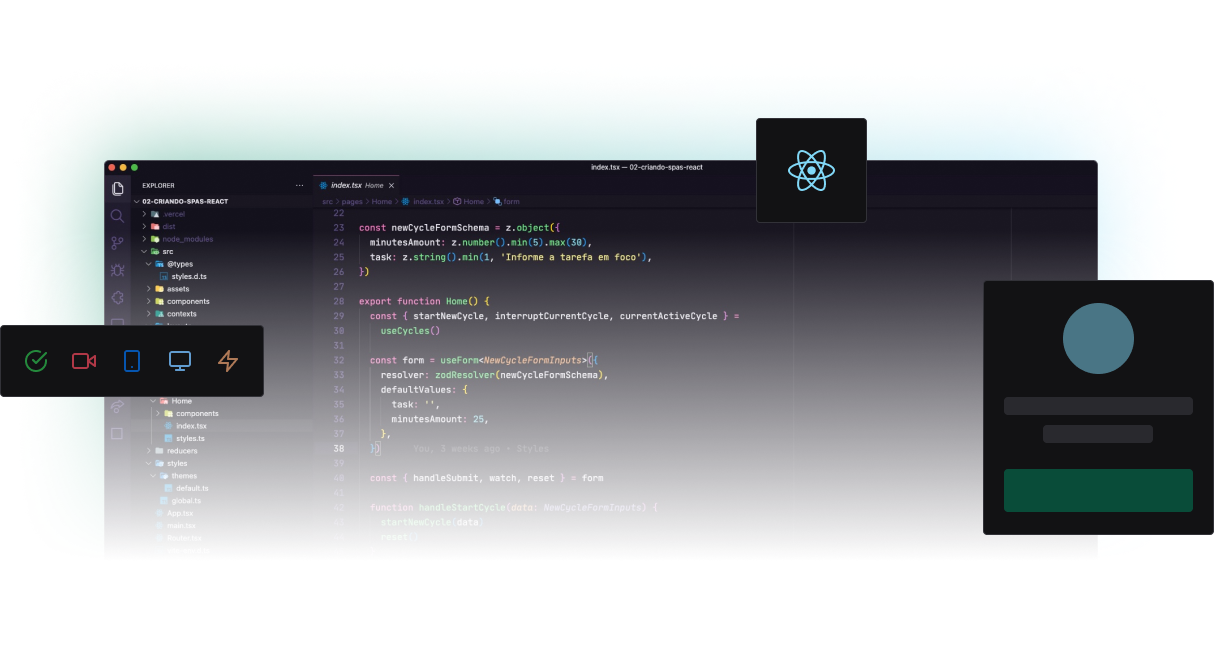
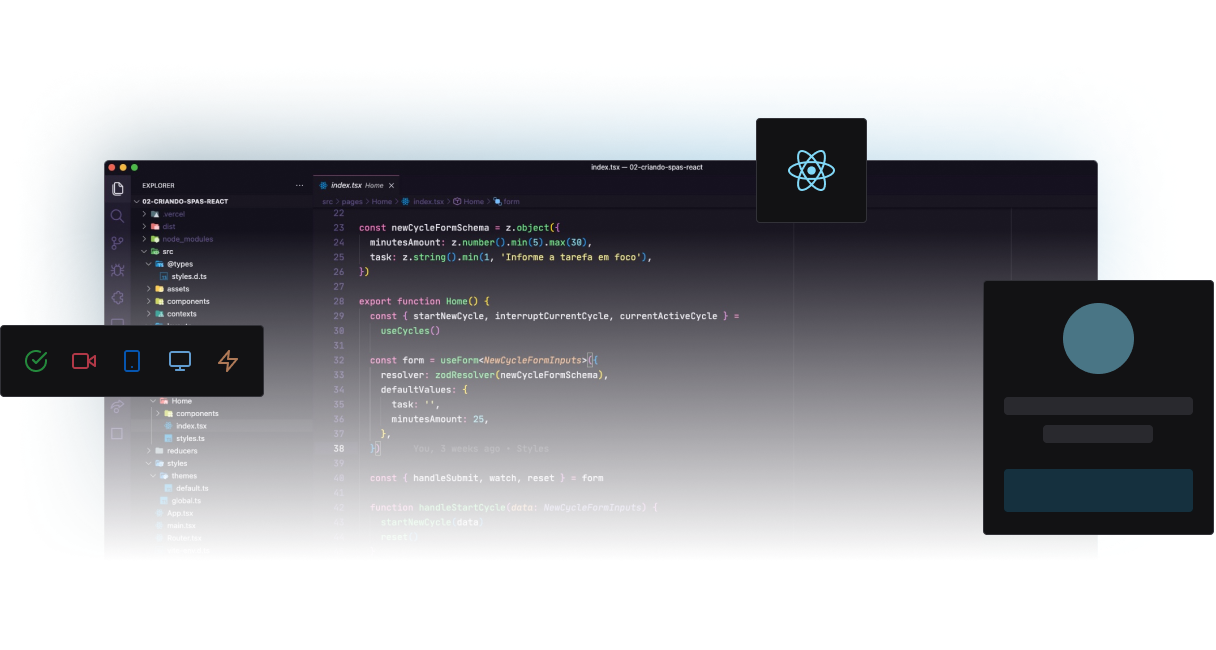
Change colors

Changed region(s): [[0.8125, 0.7077, 1.0, 0.8]]

diff --git a/src/components/Logo.tsx b/src/components/Logo.tsx
@@ -1,21 +1,40 @@
 export function Logo() {
   return (
-    <svg
-      xmlns="http://www.w3.org/2000/svg"
-      width="237"
-      height="34"
-      fill="none"
-      viewBox="0 0 237 34"
-    >
+    <svg xmlns="http://www.w3.org/2000/svg" width={237} viewBox="0 0 242.51 51.3">
+      <path
+        fill="#7fd3f4"
+        d="M10.23 30a10.14 10.14 0 01-7.38-2.78A9.9 9.9 0 010 19.85v-.54a12.43 12.43 0 011.2-5.55A8.78 8.78 0 014.6 10a9.57 9.57 0 015-1.32 8.58 8.58 0 016.66 2.66q2.45 2.66 2.45 7.56v2.24H5.58a5.14 5.14 0 001.61 3.24 4.89 4.89 0 003.4 1.22 5.93 5.93 0 005-2.31l2.71 3a8.36 8.36 0 01-3.36 2.74 11 11 0 01-4.71.97zM9.6 13.1a3.45 3.45 0 00-2.66 1.11 5.74 5.74 0 00-1.3 3.18h7.65V17a4.05 4.05 0 00-1-2.84A3.53 3.53 0 009.6 13.1zM28.73 22.93l3.83-13.88h5.75l-7 20.61H26.1l-7-20.61h5.8zM49.4 30a10.14 10.14 0 01-7.4-2.74 9.93 9.93 0 01-2.84-7.41v-.54a12.43 12.43 0 011.2-5.55A8.78 8.78 0 0143.77 10a9.55 9.55 0 015-1.32 8.56 8.56 0 016.65 2.66q2.45 2.66 2.45 7.56v2.24H44.75a5.09 5.09 0 001.61 3.24 4.87 4.87 0 003.4 1.22 5.93 5.93 0 005-2.31l2.7 3a8.27 8.27 0 01-3.35 2.74 11 11 0 01-4.71.97zm-.63-16.9a3.43 3.43 0 00-2.66 1.11 5.74 5.74 0 00-1.3 3.18h7.65V17a4.05 4.05 0 00-1-2.84 3.53 3.53 0 00-2.69-1.06zM65.49 9.05l.18 2.38a7.18 7.18 0 015.92-2.76 6 6 0 014.88 1.92 9 9 0 011.63 5.75v13.32h-5.5V16.48a3.63 3.63 0 00-.76-2.55 3.46 3.46 0 00-2.54-.79 3.77 3.77 0 00-3.48 2v14.52h-5.51V9.05zM88.3 4v5.05h3.52v4H88.3v10.32a2.48 2.48 0 00.43 1.63 2.22 2.22 0 001.68.49 8.71 8.71 0 001.59-.12v4.17a11.34 11.34 0 01-3.33.5q-5.79 0-5.91-5.85v-11.1h-3v-4h3V4z"
+      ></path>
       <path
         fill="#fff"
-        d="M.002 3.112a2.49 2.49 0 01.165-.987c.12-.314.304-.595.535-.83A2.906 2.906 0 012.615.572c.698 0 1.374.257 1.912.723.23.24.412.524.536.837a2.701 2.701 0 010 1.979 2.568 2.568 0 01-.536.837 2.889 2.889 0 01-1.907.723 2.901 2.901 0 01-1.908-.723 2.458 2.458 0 01-.538-.84 2.645 2.645 0 01-.172-.996zm4.96 23.146H.273V7.862h4.689v18.397zM8.012 16.973c0-2.853.686-5.145 2.055-6.883a6.653 6.653 0 015.528-2.606 5.869 5.869 0 014.802 2.09l.2-1.751h4.538v17.95a7.891 7.891 0 01-1.12 4.246 7.243 7.243 0 01-3.147 2.752 11.155 11.155 0 01-4.742.94c-1.378 0-2.74-.279-4.008-.812a7.08 7.08 0 01-2.946-2.11l2.208-3.02a5.905 5.905 0 004.543 2.08 4.356 4.356 0 003.104-1.059 3.938 3.938 0 001.103-2.993v-.994a5.775 5.775 0 01-4.555 1.935 6.647 6.647 0 01-3.05-.652 6.615 6.615 0 01-2.408-1.967c-1.397-1.752-2.085-4.089-2.085-6.942v-.21h-.025l.005.006zm4.997.355a6.723 6.723 0 001.026 3.956 3.233 3.233 0 002.799 1.443c.651.045 1.3-.088 1.878-.39a3.52 3.52 0 001.396-1.305v-7.825a3.448 3.448 0 00-1.374-1.305 3.504 3.504 0 00-1.86-.39 3.28 3.28 0 00-1.61.365 3.22 3.22 0 00-1.219 1.103c-.688.975-1.036 2.418-1.036 4.348zM33.098 7.833l.158 2.196a6.527 6.527 0 012.371-1.927 6.38 6.38 0 012.971-.62c1.97 0 3.438.597 4.39 1.79.953 1.194 1.456 2.936 1.486 5.293v12.249h-4.962V14.683a3.367 3.367 0 00-.684-2.344 3.086 3.086 0 00-1.069-.598 3.008 3.008 0 00-1.211-.13 3.349 3.349 0 00-1.821.454c-.553.32-1.01.794-1.313 1.367v13.37H28.45V7.845l4.647-.012zM47.512 3.112a2.304 2.304 0 01.185-.988 2.42 2.42 0 01.59-.831A3.439 3.439 0 0150.404.57c.772 0 1.52.256 2.117.723.508.486.792 1.142.792 1.826 0 .683-.284 1.34-.792 1.826a3.417 3.417 0 01-2.11.723c-.77 0-1.517-.257-2.11-.723a2.47 2.47 0 01-.594-.839 2.342 2.342 0 01-.19-.994h-.005zm5.483 23.149h-5.18V7.86h5.18v18.4zM62.454 3.334v4.612h3.107v3.677h-3.107v9.382c-.05.53.091 1.063.395 1.495a1.824 1.824 0 001.473.45c.476.002.95-.035 1.421-.114v3.803a9.672 9.672 0 01-2.939.449c-3.398 0-5.128-1.775-5.19-5.32V11.644h-2.642V7.968h2.643V3.356h4.841v-.025l-.002.003zM76.487 27.08a9.277 9.277 0 01-6.759-2.55c-1.74-1.699-2.605-3.957-2.605-6.797v-.494a11.295 11.295 0 011.098-5.08 8.141 8.141 0 013.111-3.465 8.72 8.72 0 014.59-1.22c2.577 0 4.62.815 6.098 2.449 1.478 1.633 2.226 3.94 2.226 6.929v2.055h-12.01a4.665 4.665 0 001.473 2.971 4.487 4.487 0 003.111 1.111 5.426 5.426 0 004.548-2.115l2.476 2.781a7.506 7.506 0 01-3.07 2.507 9.81 9.81 0 01-4.287.916v.002zm-.594-15.514a3.127 3.127 0 00-2.428 1.012 5.405 5.405 0 00-1.188 2.912h7.006v-.405a3.749 3.749 0 00-.908-2.608 3.252 3.252 0 00-2.45-.908h-.03l-.002-.003zM97.771 26.259h-4.957V0h4.957V26.26zM112.209 26.259c-.227-.444-.392-.997-.496-1.659-1.196 1.333-2.751 2.002-4.666 2.002-1.811 0-3.314-.523-4.504-1.572-1.191-1.049-1.786-2.372-1.786-3.966 0-1.96.725-3.464 2.179-4.513 1.453-1.049 3.553-1.58 6.3-1.59h2.273v-1.06c0-.854-.22-1.54-.659-2.051-.44-.513-1.131-.77-2.078-.77-.832 0-1.486.2-1.957.6-.474.4-.708.945-.708 1.64h-4.941c0-1.07.331-2.062.992-2.973.662-.91 1.597-1.626 2.804-2.144 1.206-.518 2.564-.778 4.069-.778 2.28 0 4.089.573 5.429 1.718 1.34 1.145 2.009 2.756 2.009 4.83v8.017c.012 1.754.256 3.082.735 3.983v.29h-4.992l-.003-.004zm-4.086-3.435c.728 0 1.402-.163 2.016-.486.614-.326 1.071-.76 1.367-1.308v-3.181h-1.846c-2.472 0-3.79.854-3.948 2.564l-.017.291c0 .614.217 1.123.649 1.523.434.4 1.026.6 1.779.6v-.003zM136.58 17.183c0 2.963-.632 5.273-1.898 6.931-1.265 1.659-3.032 2.488-5.3 2.488-2.006 0-3.608-.77-4.805-2.308l-.222 1.967h-4.444V.001h4.94v9.418c1.14-1.332 2.638-2 4.496-2 2.256 0 4.025.828 5.308 2.487 1.283 1.658 1.923 3.992 1.923 7v.274l.002.003zm-4.94-.358c0-1.868-.296-3.233-.889-4.094-.592-.861-1.475-1.29-2.65-1.29-1.572 0-2.655.643-3.247 1.932v7.299c.604 1.298 1.697 1.95 3.282 1.95 1.584 0 2.643-.788 3.146-2.36.239-.752.358-1.897.358-3.437z"
+        d="M118.82 19.54a12.36 12.36 0 01-2.16 7.63 6.94 6.94 0 01-5.84 2.83 6.43 6.43 0 01-5-2.17v9.71h-5.51V9.05h5.11l.19 2a6.46 6.46 0 015.22-2.4 7 7 0 015.92 2.82q2.12 2.82 2.11 7.77zm-5.5-.4a8.15 8.15 0 00-1-4.44 3.32 3.32 0 00-3-1.56 3.59 3.59 0 00-3.56 2v8.44a3.66 3.66 0 003.6 2c2.64.02 3.96-2.13 3.96-6.44zM127.47 29.66H122V.4h5.52zM143.38 29.66a6.13 6.13 0 01-.55-1.85 6.68 6.68 0 01-5.2 2.23 7.36 7.36 0 01-5-1.75 5.64 5.64 0 01-2-4.42 5.82 5.82 0 012.43-5q2.43-1.75 7-1.77h2.53v-1.21a3.38 3.38 0 00-.73-2.29 2.9 2.9 0 00-2.32-.86 3.32 3.32 0 00-2.18.67 2.28 2.28 0 00-.79 1.83h-5.5a5.58 5.58 0 011.1-3.32 7.38 7.38 0 013.13-2.39 11.47 11.47 0 014.53-.86 9 9 0 016 1.91 6.71 6.71 0 012.3 5.42v8.9a9.85 9.85 0 00.81 4.43v.33zm-4.55-3.83a4.79 4.79 0 002.25-.54 3.64 3.64 0 001.52-1.46v-3.54h-2.06q-4.12 0-4.4 2.85v.33a2.2 2.2 0 00.72 1.69 2.78 2.78 0 001.97.67zM158.38 4v5.05h3.52v4h-3.52v10.32a2.48 2.48 0 00.43 1.64 2.22 2.22 0 001.68.49 8.71 8.71 0 001.62-.13v4.17a11.34 11.34 0 01-3.33.5q-5.79 0-5.91-5.85v-11.1h-3v-4h3V4zM165.9 29.66V13.09h-3.06v-4h3.06V7.3a7.15 7.15 0 012-5.39A7.75 7.75 0 01173.46 0a13 13 0 012.8.38v4.27a6.79 6.79 0 00-1.68-.17q-3.1 0-3.1 2.91v1.66h4.09v4h-4.09v16.61zM177 19.16a12.28 12.28 0 011.18-5.46 8.69 8.69 0 013.4-3.72 9.9 9.9 0 015.16-1.31 9.39 9.39 0 016.81 2.55 10.3 10.3 0 012.94 6.93v1.41a10.8 10.8 0 01-2.65 7.61 10.25 10.25 0 01-14.22 0 11 11 0 01-2.62-7.76zm5.51.39a7.73 7.73 0 001.1 4.49 4 4 0 006.29 0 8.41 8.41 0 001.1-4.89 7.6 7.6 0 00-1.12-4.46 3.66 3.66 0 00-3.16-1.59 3.61 3.61 0 00-3.13 1.58 8.62 8.62 0 00-1.13 4.87zM210.88 14.21a15.2 15.2 0 00-2-.15c-2.09 0-3.45.7-4.1 2.11v13.49h-5.5V9.05h5.2l.15 2.45a5.1 5.1 0 014.59-2.83 6 6 0 011.72.24zM218.12 9.05l.17 2.3a7.24 7.24 0 015.92-2.68c2.66 0 4.48 1 5.47 3.14a7.06 7.06 0 016.19-3.14 6.14 6.14 0 015 1.95q1.63 2 1.64 5.88v13.16H237V16.51a3.92 3.92 0 00-.69-2.56 3 3 0 00-2.42-.81 3.45 3.45 0 00-3.43 2.36v14.16H225V16.53a3.89 3.89 0 00-.71-2.59 3.08 3.08 0 00-2.4-.8 3.57 3.57 0 00-3.39 1.95v14.57H213V9.05z"
+      ></path>
+      <path fill="#7fd3f4" d="M150.18 34.73H152.85V51.3H150.18z"></path>
+      <path
+        fill="#fff"
+        d="M164.06 44.25h-3v5.19h-1.7V36.6h4.25a5 5 0 013.33 1 3.55 3.55 0 011.17 2.87 3.51 3.51 0 01-.65 2.1 3.85 3.85 0 01-1.8 1.33l3 5.44v.11h-1.82l-2.79-5.19zm-3-1.39h2.6a2.89 2.89 0 002-.65 2.21 2.21 0 00.75-1.75 2.36 2.36 0 00-.71-1.83 3 3 0 00-2.05-.64h-2.59z"
+        opacity="0.7"
       ></path>
       <path
-        fill="#C4C4CC"
-        d="M164.51 17.501h-2.283v4.53h-2.048v-11.78h4.143c1.36 0 2.408.306 3.149.915.74.61 1.108 1.493 1.108 2.648 0 .787-.19 1.449-.57 1.98-.38.532-.911.94-1.59 1.226l2.646 4.906v.106h-2.194l-2.364-4.531h.003zm-2.283-1.65h2.105c.691 0 1.229-.176 1.619-.524.39-.348.582-.824.582-1.429 0-.604-.18-1.12-.538-1.466-.358-.345-.893-.523-1.606-.533h-2.162V15.85zM179.066 16.773h-4.839v3.625h5.656v1.634h-7.704V10.25h7.648v1.65h-5.6v3.253h4.839v1.62zM189.803 19.29h-4.565l-.955 2.744h-2.127l4.452-11.783h1.836l4.459 11.783h-2.137l-.963-2.744zm-3.99-1.65h3.415l-1.707-4.89-1.708 4.89zM204.716 18.197c-.119 1.256-.583 2.238-1.392 2.941-.81.703-1.885 1.056-3.228 1.056-.938 0-1.764-.222-2.48-.668-.715-.445-1.266-1.079-1.656-1.898-.387-.82-.589-1.772-.607-2.858v-1.1c0-1.11.198-2.09.59-2.937.392-.846.96-1.5 1.695-1.96.736-.458 1.587-.688 2.554-.688 1.301 0 2.347.353 3.139 1.057.792.703 1.254 1.7 1.385 2.99h-2.039c-.096-.846-.343-1.458-.74-1.833-.397-.375-.977-.563-1.745-.563-.89 0-1.574.326-2.05.977-.479.652-.721 1.605-.733 2.863v1.044c0 1.273.227 2.245.683 2.917.457.668 1.123 1.004 2.004 1.004.805 0 1.409-.18 1.814-.543.405-.363.661-.962.77-1.804h2.038l-.002.003zM216.481 11.902h-3.674v10.132h-2.031V11.902h-3.642V10.25h9.347v1.65zM222.759 10.251h2.039v8.262c0 1.127-.353 2.023-1.057 2.687-.703.664-1.633.995-2.788.995-1.229 0-2.179-.311-2.848-.93-.669-.62-1.004-1.484-1.004-2.59h2.038c0 .627.156 1.096.467 1.412.31.316.76.474 1.347.474.55 0 .989-.183 1.315-.545.326-.366.489-.867.489-1.51V10.25h.002zM234.952 18.999c0-.518-.183-.918-.545-1.197-.363-.279-1.022-.563-1.972-.849-.95-.286-1.705-.604-2.265-.955-1.074-.674-1.612-1.555-1.612-2.638 0-.95.388-1.732 1.163-2.347.774-.614 1.779-.922 3.015-.922.819 0 1.55.15 2.194.454a3.597 3.597 0 011.513 1.29c.367.558.55 1.177.55 1.858h-2.038c0-.614-.193-1.095-.578-1.443-.385-.348-.938-.524-1.656-.524-.668 0-1.189.144-1.557.43-.37.286-.555.686-.555 1.197 0 .432.2.792.6 1.08.399.29 1.056.57 1.974.842.918.271 1.653.582 2.208.93.556.348.963.748 1.222 1.197.259.452.387.977.387 1.582 0 .982-.375 1.762-1.127 2.342-.753.58-1.775.87-3.063.87a5.755 5.755 0 01-2.352-.473c-.715-.316-1.27-.75-1.668-1.308-.397-.555-.594-1.204-.594-1.942h2.048c0 .669.222 1.187.664 1.555.441.367 1.075.55 1.902.55.713 0 1.246-.143 1.607-.432.357-.288.538-.671.538-1.145l-.003-.002z"
+        fill="#fff"
+        d="M179.63 43.51L174.07 43.51 174.07 48.05 180.53 48.05 180.53 49.44 172.37 49.44 172.37 36.6 180.44 36.6 180.44 37.99 174.07 37.99 174.07 42.12 179.63 42.12 179.63 43.51z"
+        opacity="0.7"
       ></path>
-      <path fill="#00B37E" d="M150.271 33.146h-4.958V.57h4.958v32.576z"></path>
+      <path
+        fill="#fff"
+        d="M191.63 46.08h-5.38L185 49.44h-1.7l4.9-12.84h1.48l4.91 12.84h-1.74l-1.22-3.36zm-4.87-1.39h4.37l-2.19-6zM207.57 45.37a4.67 4.67 0 01-1.5 3.14 4.9 4.9 0 01-3.36 1.11 4.56 4.56 0 01-3.65-1.62 6.61 6.61 0 01-1.37-4.37v-1.25a7.29 7.29 0 01.64-3.15 4.82 4.82 0 011.81-2.09 5.09 5.09 0 012.72-.72 4.62 4.62 0 013.28 1.14 4.75 4.75 0 011.43 3.16h-1.7a3.59 3.59 0 00-1-2.22 2.87 2.87 0 00-2.06-.69 3 3 0 00-2.55 1.2 5.51 5.51 0 00-.92 3.41v1.24a5.67 5.67 0 00.87 3.33 2.85 2.85 0 002.45 1.24 3.27 3.27 0 002.16-.64 3.55 3.55 0 001-2.22z"
+        opacity="0.7"
+      ></path>
+      <path
+        fill="#fff"
+        d="M220.4 37.99L216.28 37.99 216.28 49.44 214.59 49.44 214.59 37.99 210.48 37.99 210.48 36.6 220.4 36.6 220.4 37.99z"
+        opacity="0.7"
+      ></path>
+      <path
+        fill="#fff"
+        d="M227.47 36.6h1.71v9.09a3.78 3.78 0 01-1.11 2.89 4.15 4.15 0 01-2.95 1 4.25 4.25 0 01-3-1 3.54 3.54 0 01-1.07-2.74h1.7a2.12 2.12 0 002.35 2.33 2.26 2.26 0 001.7-.67 2.53 2.53 0 00.65-1.85zM237.75 43.71a7.78 7.78 0 01-3.17-1.54 2.91 2.91 0 01-1-2.25 3.11 3.11 0 011.22-2.51 4.83 4.83 0 013.15-1 5.28 5.28 0 012.36.51 3.86 3.86 0 011.6 1.41 3.58 3.58 0 01.57 2h-1.7a2.37 2.37 0 00-.74-1.83 3.68 3.68 0 00-4-.11 1.84 1.84 0 00-.7 1.53 1.67 1.67 0 00.66 1.33 6.54 6.54 0 002.27 1 10.16 10.16 0 012.5 1 3.81 3.81 0 011.34 1.26 3.25 3.25 0 01.44 1.71 3 3 0 01-1.22 2.5 5.21 5.21 0 01-3.25.94 6 6 0 01-2.47-.51 4.22 4.22 0 01-1.77-1.39 3.34 3.34 0 01-.62-2h1.7a2.21 2.21 0 00.86 1.83 3.62 3.62 0 002.3.68 3.36 3.36 0 002.05-.55 1.78 1.78 0 00.72-1.49 1.75 1.75 0 00-.67-1.46 7.73 7.73 0 00-2.43-1.06z"
+        opacity="0.7"
+      ></path>
     </svg>
   );
 }

diff --git a/src/pages/Subscribe.tsx b/src/pages/Subscribe.tsx
@@ -28,8 +28,8 @@ export function Subscribe() {
 
   return (
     <div className="min-h-screen bg-blur bg-cover bg-no-repeat flex flex-col items-center">
-      <div className="w-full max-w-[1100px] flex items-center justify-between mt-20 mx-auto">
-        <div className="max-w-[640px]">
+      <div className="w-full max-w-[1100px] flex items-center justify-between flex-col lg:flex-row mt-20 mx-auto">
+        <div className="w-full lg:max-w-[640px] flex flex-col items-center lg:items-start text-center lg:text-left px-4">
           <Logo />
 
           <h1 className="mt-8 text-[2.5rem] leading-tight">
@@ -41,18 +41,18 @@ export function Subscribe() {
           </p>
         </div>
 
-        <div className="p-8 bg-gray-700 border border-gray-500 rounded">
+        <div className="w-full mt-8 lg:mt-0 lg:w-auto p-8 bg-gray-700 border border-gray-500 rounded">
           <strong className="text-2xl mb-6 block">Inscreva-se gratuitamente</strong>
 
           <form onSubmit={handleSubscribe} className="flex flex-col gap-2 w-full">
             <input
-              className="bg-gray-900 rounded px-5 h-14 border border-gray-900 hover:border-green-500 focus:border focus:border-green-500 focus:outline-none placeholder:text-gray-300"
+              className="bg-gray-900 rounded px-5 h-14 border border-gray-900 hover:border-blue-500 focus:border focus:border-blue-500 focus:outline-none placeholder:text-gray-300"
               type="text"
               placeholder="Seu nome completo"
               onChange={event => setName(event.target.value)}
             />
             <input
-              className="bg-gray-900 rounded px-5 h-14 border border-gray-900 hover:border-green-500 focus:border focus:border-green-500 focus:outline-none placeholder:text-gray-300"
+              className="bg-gray-900 rounded px-5 h-14 border border-gray-900 hover:border-blue-500 focus:border focus:border-blue-500 focus:outline-none placeholder:text-gray-300"
               type="email"
               placeholder="Digite seu e-mail"
               onChange={event => setEmail(event.target.value)}
@@ -61,7 +61,7 @@ export function Subscribe() {
             <button
               type="submit"
               disabled={loading}
-              className="mt-5 bg-green-500 uppercase py-4 rounded font-bold text-sm hover:bg-green-700 transition-colors disabled:opacity-50"
+              className="mt-5 text-gray-700 bg-blue-500 uppercase py-4 rounded font-bold text-sm hover:bg-blue-700 transition-colors disabled:opacity-50"
             >
               Garantir minha vaga
             </button>

diff --git a/src/components/Lesson.tsx b/src/components/Lesson.tsx
@@ -30,15 +30,15 @@ export function Lesson(props: LessonProps) {
       </span>
 
       <div className={classNames('rounded border p-4 mt-2', {
-        'border-green-500 bg-green-500 relative before:w-3 before:h-3 before:absolute before:bg-green-500 before:top-2/4 before:left-0 before:-translate-x-2/4 before:-translate-y-2/4 before:rotate-45 before:rounded-sm': isActiveLesson,
+        'border-blue-500 bg-blue-500 relative before:w-3 before:h-3 before:absolute before:bg-blue-500 before:top-2/4 before:left-0 before:-translate-x-2/4 before:-translate-y-2/4 before:rotate-45 before:rounded-sm': isActiveLesson,
         'border-gray-500': !isActiveLesson,
-        'group-hover:border-green-500': isLessonAvailable,
+        'group-hover:border-blue-500': isLessonAvailable,
         'opacity-50': !isLessonAvailable
       })}>
         <header className="flex items-center justify-between">
           {isLessonAvailable ? (
             <span className={classNames('text-sm font-medium flex items-center gap-2', {
-              'text-white': isActiveLesson,
+              'text-gray-700': isActiveLesson,
               'text-blue-500': !isActiveLesson
             })}>
               <CheckCircle size={20} />
@@ -51,16 +51,17 @@ export function Lesson(props: LessonProps) {
             </span>
           )}
           
-          <span className={classNames('text-xs rounded py-[0.125rem] px-2 text-white border font-bold', {
-            'border-white': isActiveLesson,
-            'border-green-300': !isActiveLesson
+          <span className={classNames('text-xs rounded py-[0.125rem] px-2 border font-bold', {
+            'border-gray-700 text-gray-700': isActiveLesson,
+            'border-blue-300 text-white': !isActiveLesson && isLessonAvailable,
+            'border-orange-500 text-white': !isLessonAvailable
           })}>
             {props.type === 'live' ? 'AO VIVO' : ' AULA PRÁTICA'}
           </span>
         </header>
         
         <strong className={classNames('mt-5 block', {
-          'text-white': isActiveLesson,
+          'text-gray-700': isActiveLesson,
           'text-gray-200': !isActiveLesson
         })}>
           {props.title}

diff --git a/src/components/Video.tsx b/src/components/Video.tsx
@@ -65,7 +65,7 @@ export function Video(props: VideoProps) {
           </div>
 
           <div className="flex flex-col gap-4">
-            <a href="" className="p-4 text-sm bg-green-500 flex items-center rounded font-bold uppercase gap-2 justify-center hover:bg-green-700 transition-colors">
+            <a href="" className="p-4 text-sm text-gray-900 bg-blue-500 flex items-center rounded font-bold uppercase gap-2 justify-center hover:bg-blue-700 transition-colors">
               <DiscordLogo size={24} />
               Comunidade do Discord
             </a>
@@ -79,7 +79,7 @@ export function Video(props: VideoProps) {
 
         <div className="gap-8 mt-20 grid grid-cols-2">
           <a href="" className="bg-gray-700 rounded overflow-hidden flex items-stretch gap-6 hover:bg-gray-600 transition-colors">
-            <div className="bg-green-700 h-full p-6 flex items-center">
+            <div className="bg-blue-700 text-gray-700 h-full p-6 flex items-center">
               <FileArrowDown size={40} />
             </div>
             <div className="py-6 leading-relaxed">
@@ -94,7 +94,7 @@ export function Video(props: VideoProps) {
           </a>
 
           <a href="" className="bg-gray-700 rounded overflow-hidden flex items-stretch gap-6 hover:bg-gray-600 transition-colors">
-            <div className="bg-green-700 h-full p-6 flex items-center">
+            <div className="bg-blue-700 text-gray-700 h-full p-6 flex items-center">
               <Image size={40} />
             </div>
             <div className="py-6 leading-relaxed">

diff --git a/tailwind.config.js b/tailwind.config.js
@@ -19,6 +19,7 @@ module.exports = {
         },
         blue: {
           500: '#81D8F7',
+          700: '#73C3F2'
         },
         orange: {
           500: '#FBA94C',

diff --git a/README.md b/README.md
@@ -1,0 +1,50 @@
+<h1 align="center">Event Platform</h1>
+
+<p align="center">
+  <a href="#-setup">Setup</a> •
+  <a href="#-technologies">Technologies</a> •
+  <a href="#-license">License</a>
+</p>
+
+<p align="center">
+  <img 
+    src=".github/background.png" 
+    alt="Ignite Lab"
+  />
+</p>
+
+## 💻 Setup
+
+**Clone the project and acess the folder**
+
+```bash
+git clone https://github.com/migueloliveiraz/event-platform.git && cd event-platform
+```
+
+**Follow the steps below**
+
+```bash
+# Install the dependencies
+$ yarn or npm install
+
+# Run the web server
+$ yarn dev
+
+```
+
+## 🚀 Technologies
+
+- [ReactJS](https://reactjs.org/)
+- [TypeScript](https://www.typescriptlang.org/)
+- [TailwindCSS](https://tailwindcss.com/)
+- [GraphCMS](https://graphcms.com/)
+
+## 📝 License
+
+This project is licensed under the MIT License - see the [LICENSE](LICENSE) file for details.
+
+---
+
+<p align="center">
+  by <a href="https://www.linkedin.com/in/miguel-oliv/">Miguel Oliveira</a>
+</p>
